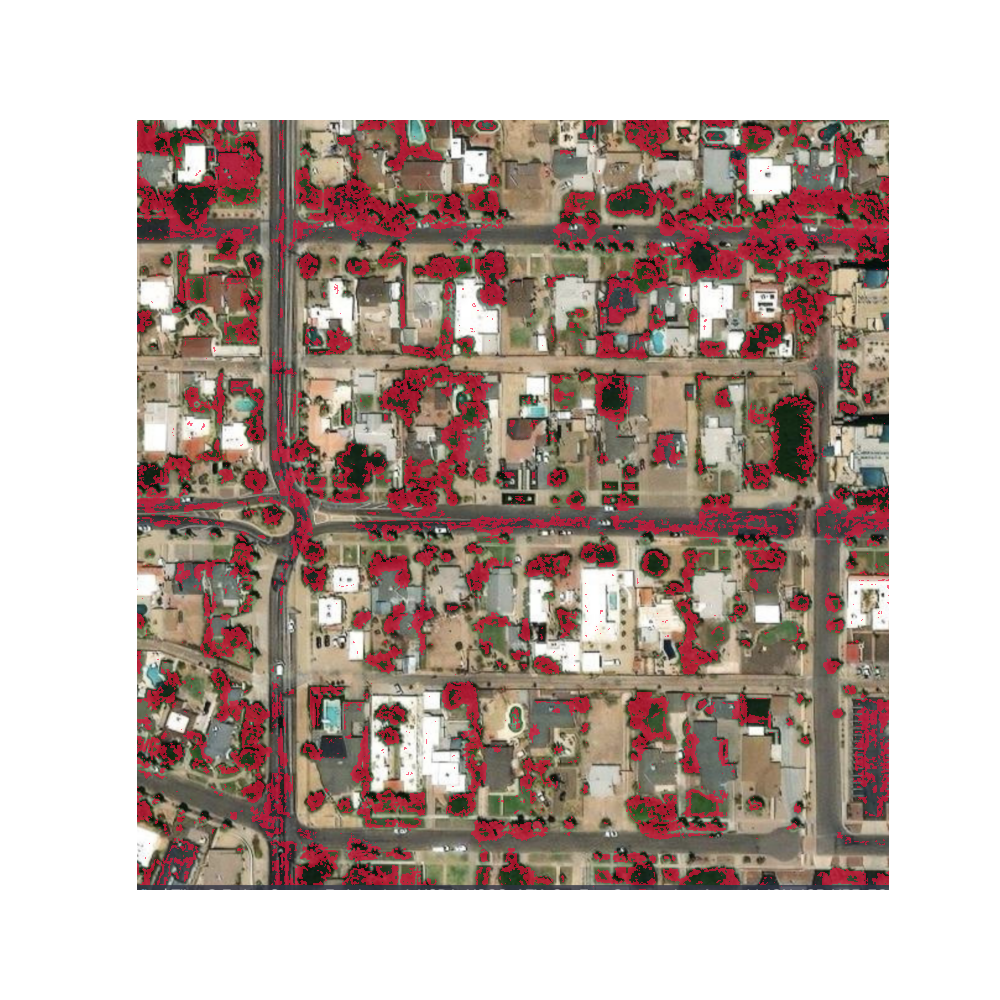
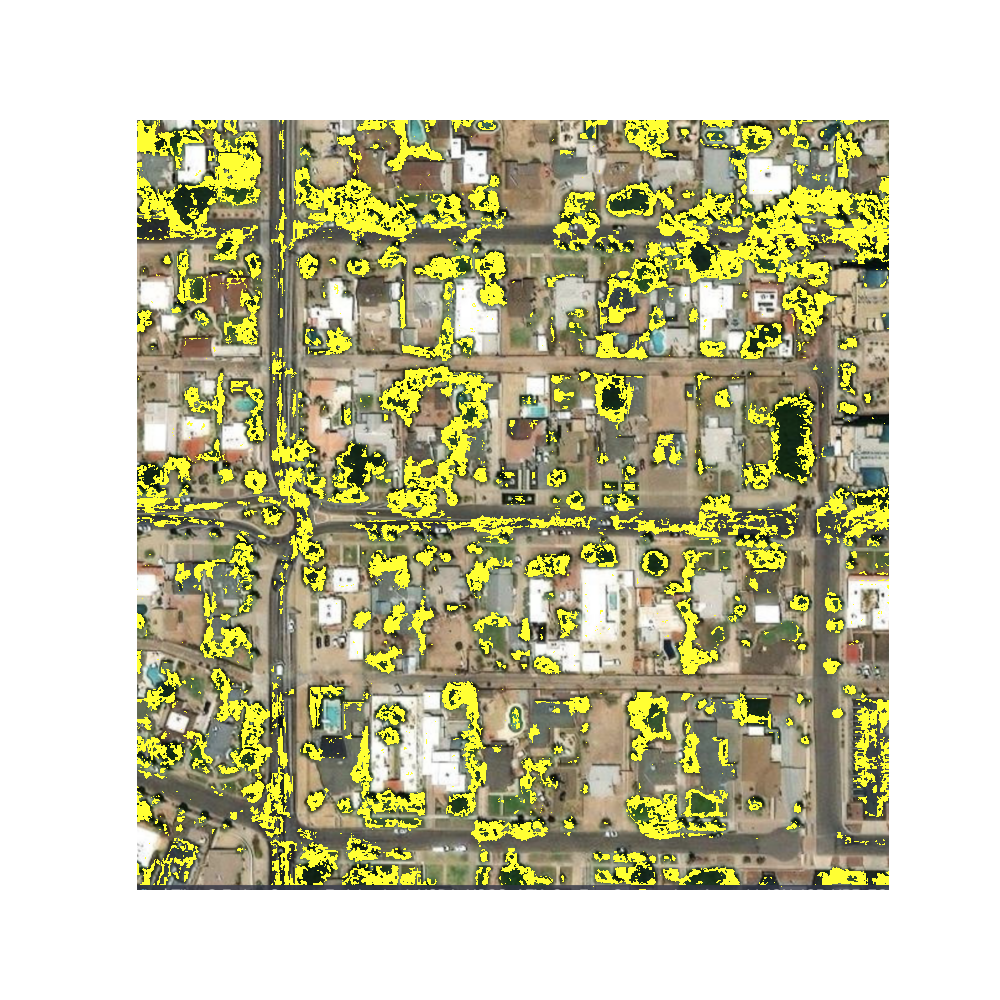
Modified colors and transparency
for better overlay visibility

diff --git a/arizona-tree-backend/canopy.py b/arizona-tree-backend/canopy.py
@@ -39,10 +39,10 @@ ax.imshow(np.moveaxis(img, 0, -1))  # Move axis to plot correctly (bands last)
 from matplotlib.colors import ListedColormap
 
 # Neon yellow color for tree pixels
-neon_yellow_cmap = ListedColormap(["none", "#ff073a"])  # Bright neon yellow
+neon_yellow_cmap = ListedColormap(["none", "#FFFF33"])  # Bright neon yellow
 
 # Overlay the prediction with the custom neon yellow colormap
-ax.imshow(y_pred, cmap=neon_yellow_cmap, alpha=0.6)  # Adjust alpha for transparency
+ax.imshow(y_pred, cmap=neon_yellow_cmap, alpha=1)  # Adjust alpha for transparency
 
 # Remove axes for cleaner output
 ax.axis("off")
